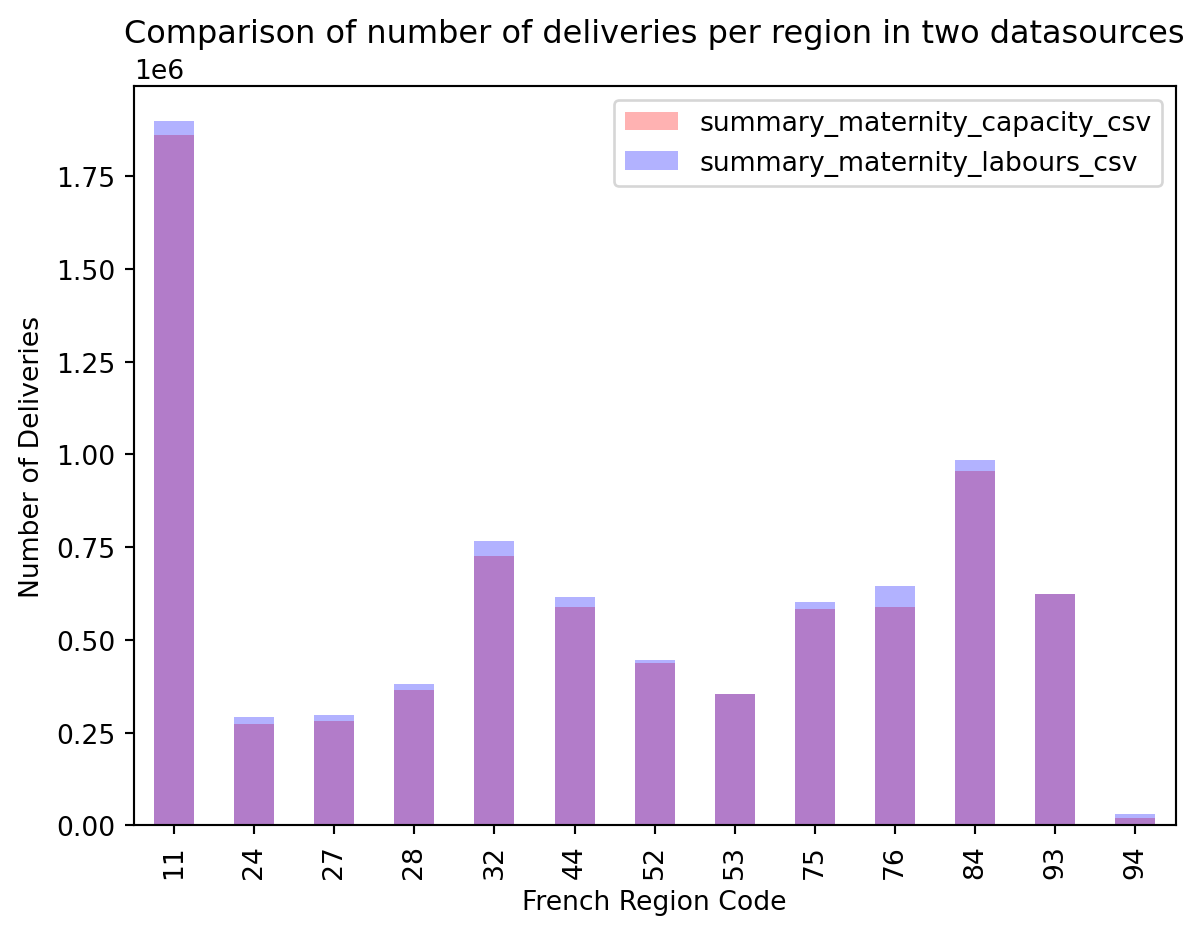
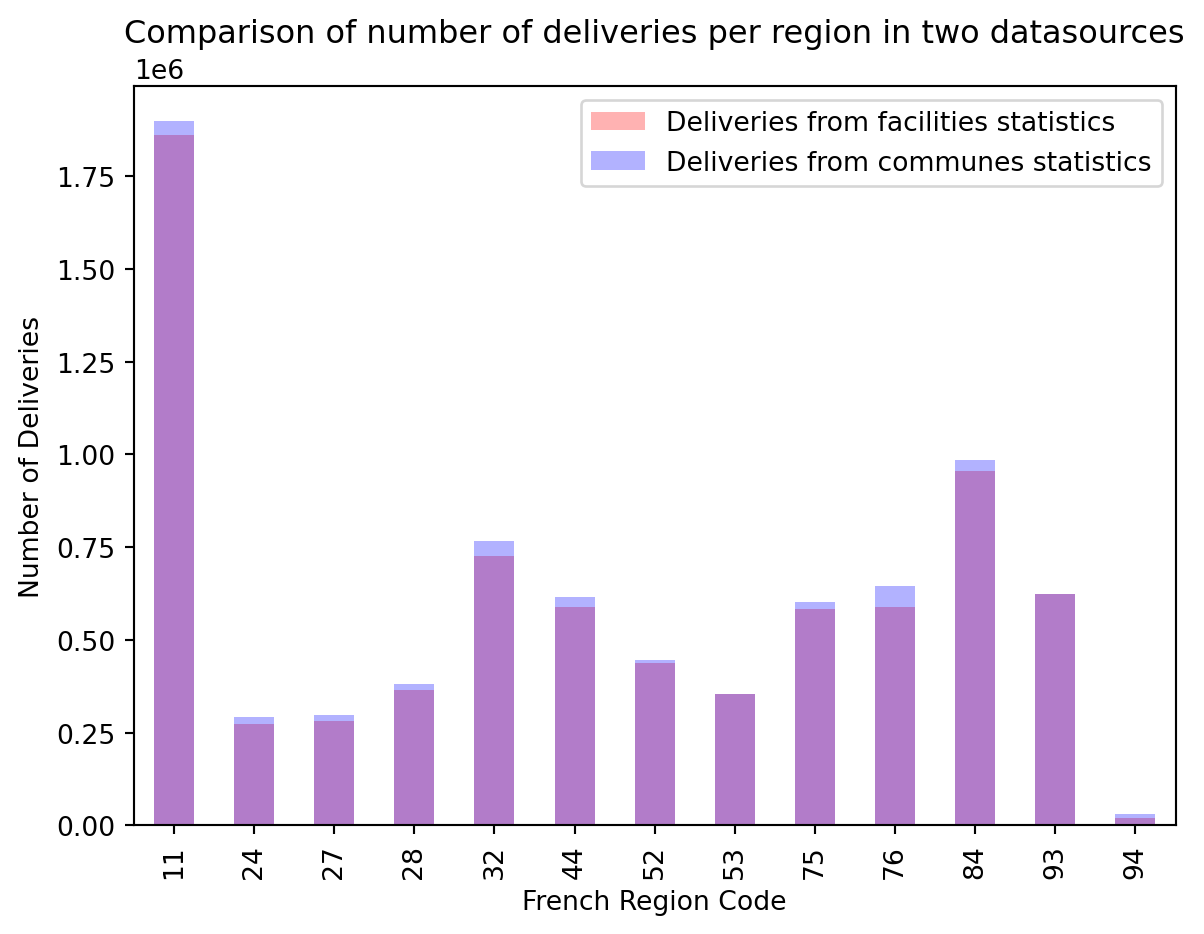
Update the d_gr in pthptg to use only fifty percent

Changed region(s): [[0.4917, 0.0931, 0.9527, 0.1863]]

diff --git a/docs/_site/instance_maternities.html b/docs/_site/instance_maternities.html
@@ -212,7 +212,7 @@ window.Quarto = {
 <li>Additional open data for precise coordinates of the regions, departments and communes in France.</li>
 </ul>
 <p>The data sources have been synthesized in our project as two files 📄 <a href="https://gitlab.emse.fr/cis-public/i4s/thierry-garaix/safepaw_strategic/-/raw/demo-refactor/data/open_data/summary_maternity_capacity.csv?ref_type=heads"><em>summary_maternity_capacity.csv</em></a> for the capacity in <code>beds</code> by facility and 📄 <a href="https://gitlab.emse.fr/cis-public/i4s/thierry-garaix/safepaw_strategic/-/raw/demo-refactor/data/open_data/summary_maternity_labours.csv?ref_type=heads"><em>summary_maternity_labours.csv</em></a> to extract the demand by commune. Sample rows are shown below.</p>
-<div id="dd93173a" class="cell" data-results="asis" data-execution_count="1">
+<div id="036cac36" class="cell" data-results="asis" data-execution_count="1">
 <div class="cell-output cell-output-display">
 <table class="dataframe table table-sm table-striped small">
 
@@ -411,7 +411,7 @@ deliveries_per_comm
 <section id="verifying-compatibility" class="level4">
 <h4 class="anchored" data-anchor-id="verifying-compatibility">Verifying compatibility</h4>
 <p>We made sure that the two data sources were coherent by summing the number of deliveries by region across 10 years.</p>
-<div id="fd3f4d30" class="cell" data-results="asis" data-execution_count="2">
+<div id="27499eca" class="cell" data-results="asis" data-execution_count="2">
 <div class="cell-output cell-output-display">
 <div>
 <figure class="figure">
@@ -435,8 +435,8 @@ deliveries_per_comm
 d_{gr} = \frac{\bar{L}_r}{\sum_{r} \bar{L}_r}
 \end{equation}\]</span></p>
 <p>This demand is global for all patient groups. As we do not have detailed info on the demand per pation group, we multiply the obtained global demands by the estimated statistics on delivery type [<span class="citation" data-cites="DREES2021_naissance_accouchements">DREES (<a href="#ref-DREES2021_naissance_accouchements" role="doc-biblioref">2021</a>)</span>].</p>
-<div id="9375d9d9" class="cell" data-results="asis" data-execution_count="3">
-<div class="cell-output cell-output-display" data-execution_count="18">
+<div id="8969eeb5" class="cell" data-results="asis" data-execution_count="3">
+<div class="cell-output cell-output-display" data-execution_count="15">
 <table class="dataframe table table-sm table-striped small">
 
 <thead>
@@ -489,38 +489,6 @@ Available pathways
 
 <td>
 One pathway per group
-</td>
-
-</tr>
-
-<tr>
-
-<td>
-<span class="math inline">\(A_{gk}\)</span>
-</td>
-
-<td>
-Number of activities for group <span class="math inline">\(g\)</span> pathway <span class="math inline">\(k\)</span>
-</td>
-
-<td>
-One activity per pathway
-</td>
-
-</tr>
-
-<tr>
-
-<td>
-<span class="math inline">\(R\)</span>
-</td>
-
-<td>
-Regions
-</td>
-
-<td>
-French communes
 </td>
 
 </tr>
@@ -585,6 +553,22 @@ Quality levels for group <span class="math inline">\(g\)</span>
 
 <td>
 One quality level
+</td>
+
+</tr>
+
+<tr>
+
+<td>
+<span class="math inline">\(A_{gk}\)</span>
+</td>
+
+<td>
+Number of activities for group <span class="math inline">\(g\)</span> pathway <span class="math inline">\(k\)</span>
+</td>
+
+<td>
+One activity per pathway
 </td>
 
 </tr>

diff --git a/backend/core/mappers/datasets_mappers/ptgpth_utils.py b/backend/core/mappers/datasets_mappers/ptgpth_utils.py
@@ -378,7 +378,7 @@ def get_demand_lower_bounds(gdf_summary: pd.DataFrame, df_types_parcours: pd.Dat
         for _, gdf_row in gdf_summary.iterrows():
             can_code = gdf_row["can_code"]
             frac_pop = gdf_row["pop65p"] / gdf_summary["pop65p"].sum()   
-            d_gr[group][can_code] = float( frac_visits * frac_pop)
+            d_gr[group][can_code] = float( frac_visits * frac_pop)/2
     return d_gr
 
 
